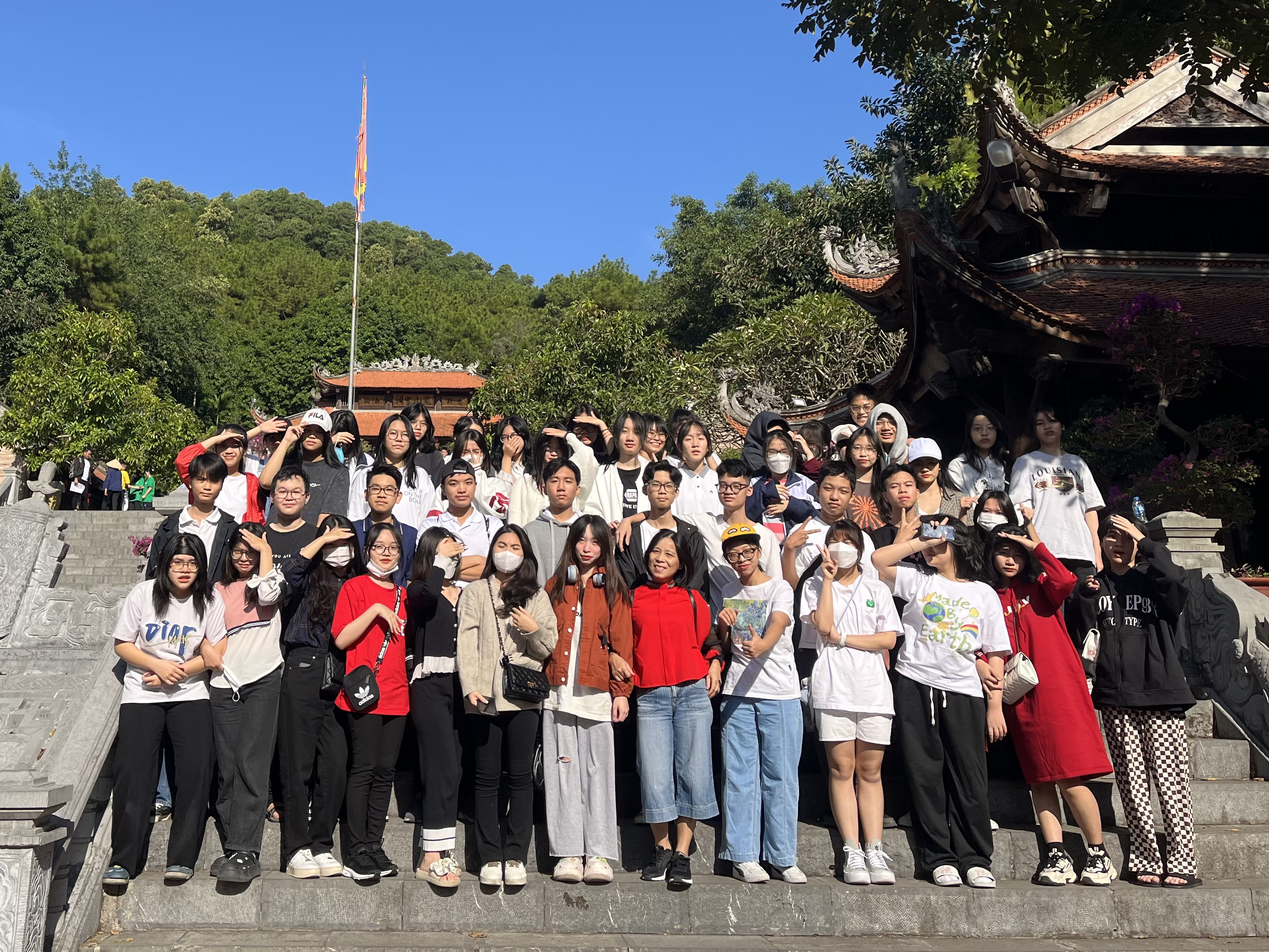
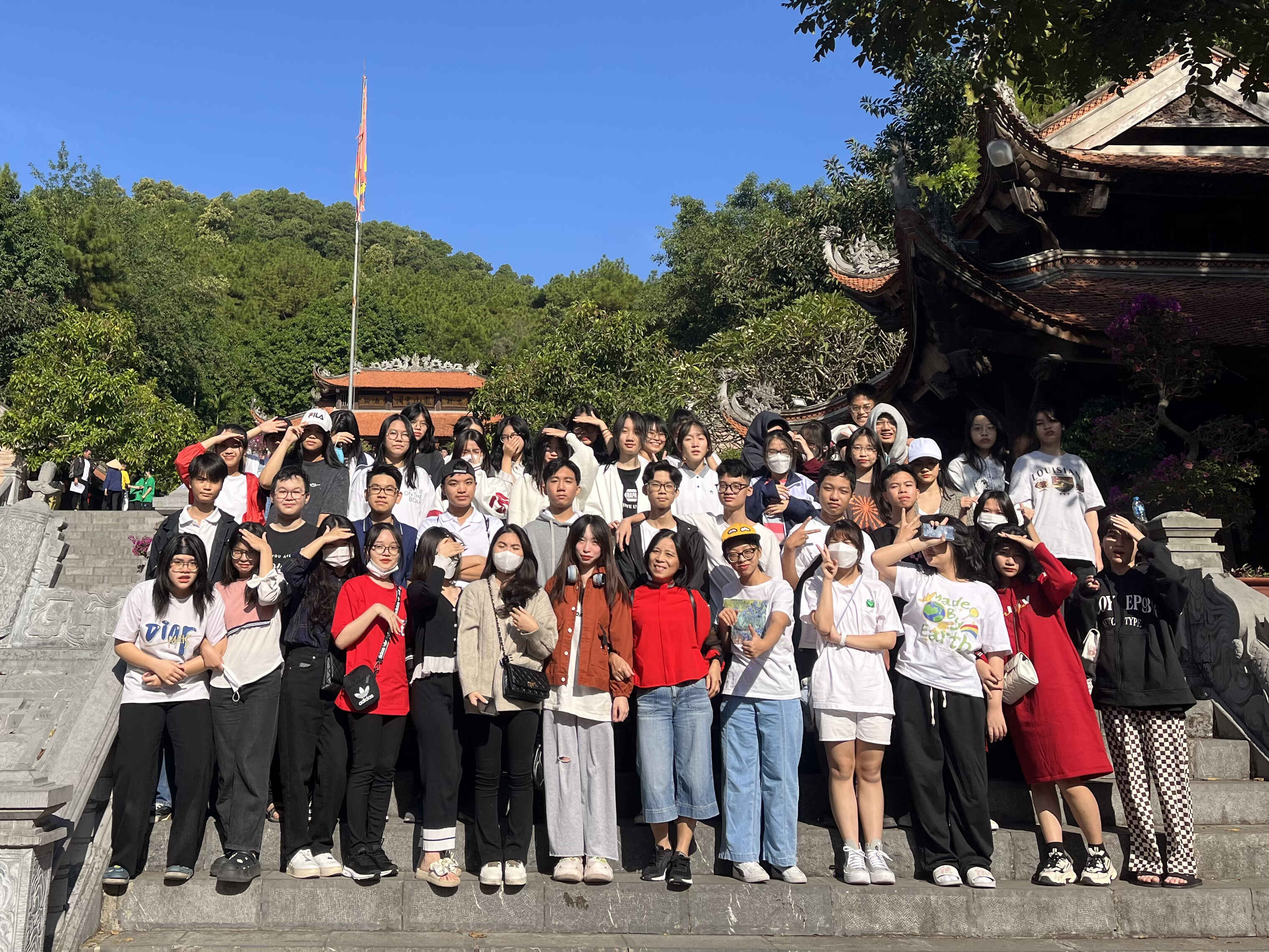
compress images

Changed region(s): [[0.5569, 0.4363, 0.5879, 0.4675]]

diff --git a/app/page.tsx b/app/page.tsx
@@ -962,7 +962,7 @@ const memories = [
     date: "26 Tháng 10, 2024",
     description: "Những khoảnh khắc gắn kết ấy đã khắc sâu trong tim ta những kỷ niệm đáng nhớ chặng cuối năm học cấp Ba",
     images: [
-      "/L12.jpeg",
+      "/L12.jpg",
       "https://github.com/xuanlamm/viet_cho_mua_ha_cuoi/blob/main/public/L121.JPG?raw=true",
     ],
   },
